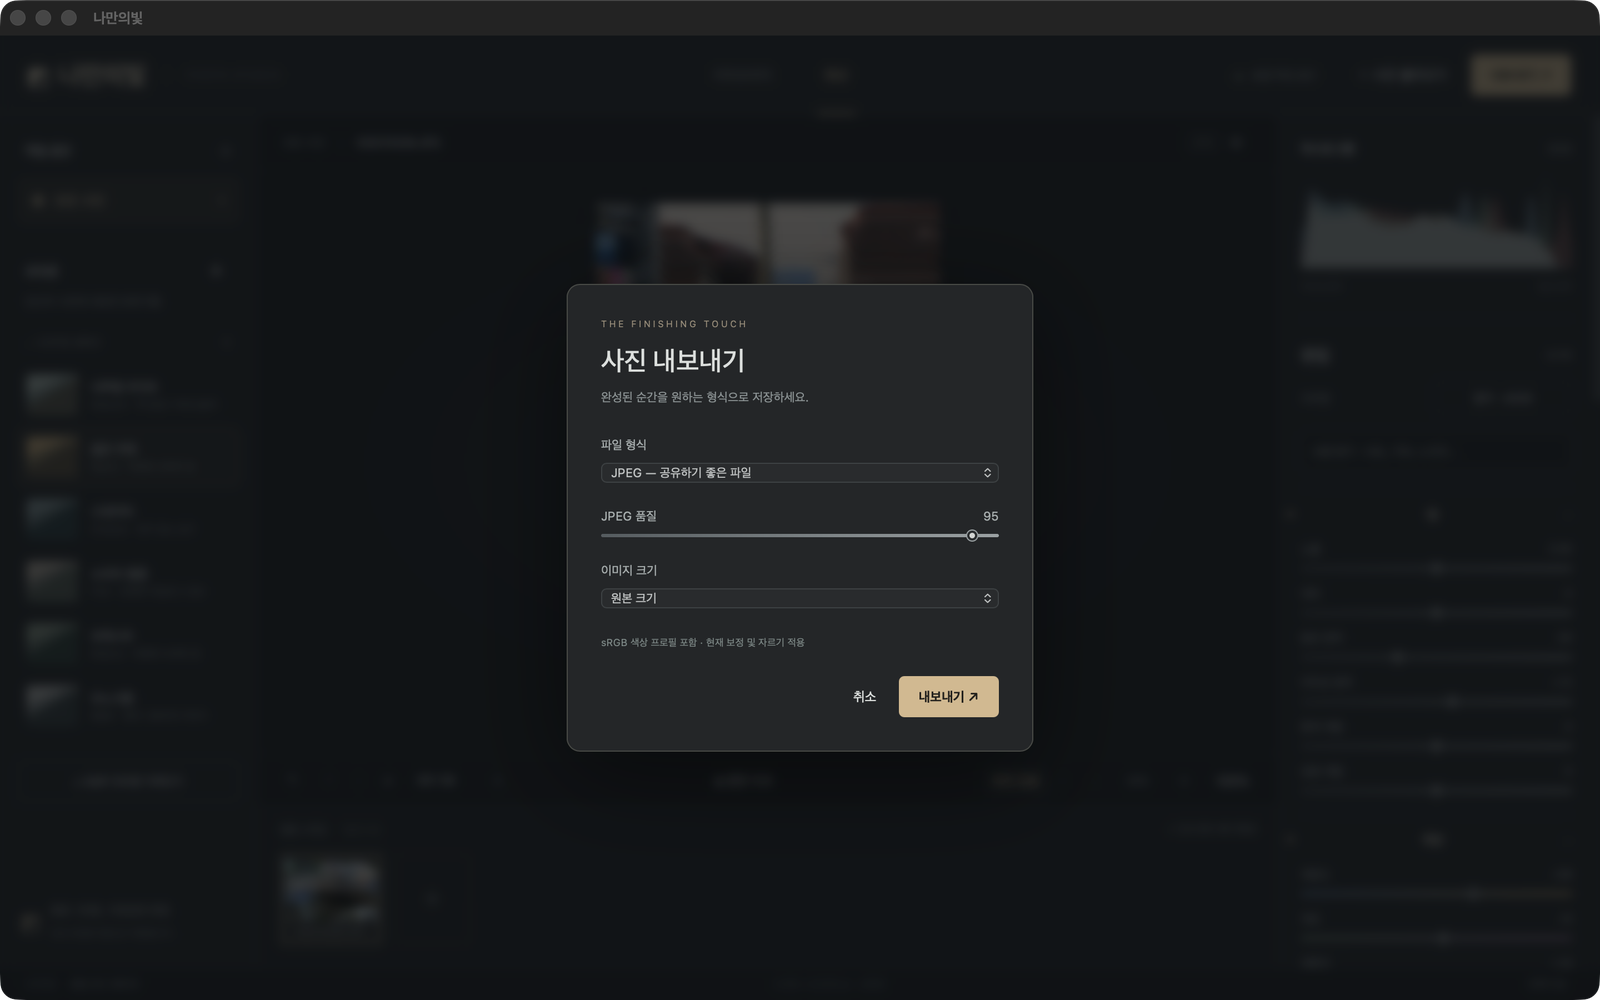
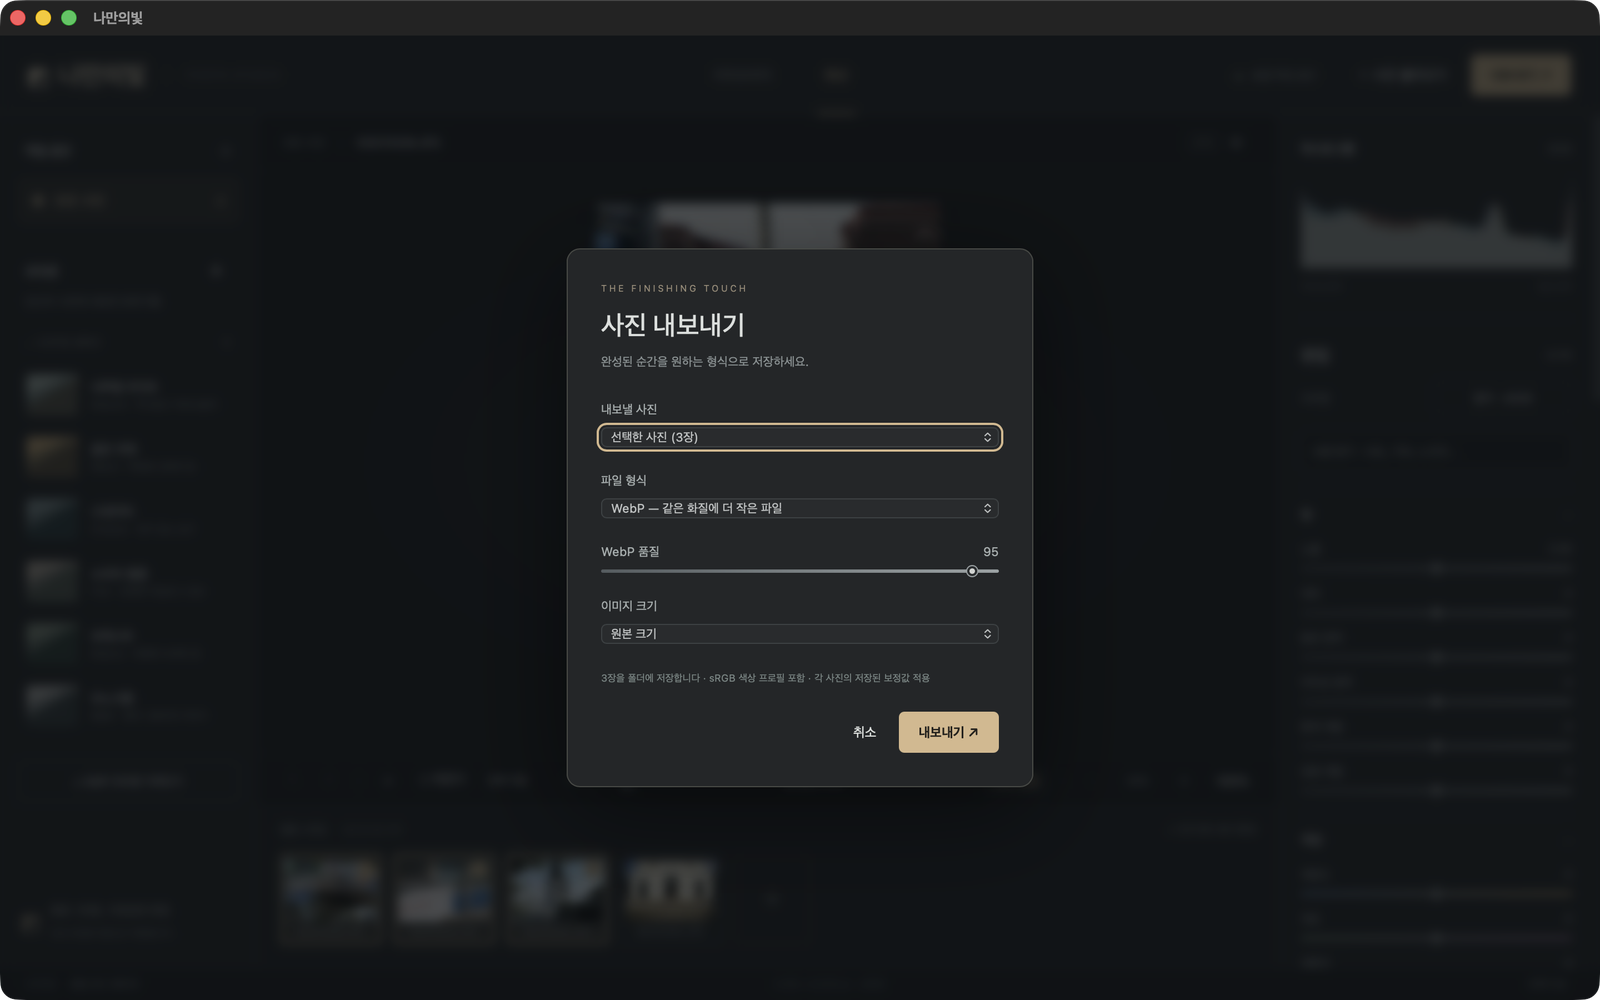
1.1.0 기능 캡처 추가, 캡처하다 찾은 버그 둘 수정
docs/screenshots에 자르기 도구, 라이브러리 선택, 내보내기, 삭제 확인
네 장을 넣었습니다. 내보내기 캡처는 범위 선택이 없던 기존 것을 대체합니다.

찍은 화면을 보다 두 가지를 발견해 함께 고쳤습니다.

- WebP를 고르면 품질 슬라이더가 숨겨져 조절할 수 없었습니다. WebP도
  손실 압축이므로 JPEG과 같이 슬라이더를 두고 라벨만 형식에 맞춥니다.
- 정적 파일에 Cache-Control이 없어 웹뷰가 디스크 캐시에 남은 이전
  버전의 app.js를 내주고 있었습니다. 앱을 업데이트해도 옛 화면이 뜰 수
  있어 no-store를 붙입니다. 전부 루프백에서 오므로 캐시 이득은 없습니다.

삭제 확인 문구의 "파일명을(를)"이 어색해 "파일명 파일을"로 바꾸고,
원본이 남는다는 점을 함께 알립니다.

diff --git a/static/app.js b/static/app.js
@@ -627,11 +627,14 @@ function clearCurrent() {
 }
 $("deletePhoto").onclick = () =>
   current &&
-  removePhotos([current.id], `${current.name}을(를) 라이브러리에서 지웁니다.`);
+  removePhotos(
+    [current.id],
+    `${current.name} 파일을 라이브러리에서 지웁니다. 원본은 그대로 남습니다.`,
+  );
 $("deleteSelected").onclick = () =>
   removePhotos(
     [...selected],
-    `선택한 ${selected.size}장을 라이브러리에서 지웁니다.`,
+    `선택한 ${selected.size}장을 라이브러리에서 지웁니다. 원본은 그대로 남습니다.`,
   );
 $("selectAll").onclick = () => {
   selected = new Set(photos.map((p) => p.id));
@@ -1174,12 +1177,19 @@ $("exportTop").onclick = () => {
   if (!photos.length) return toast("내보낼 사진이 없습니다.");
   $("exportScope").value = current ? "current" : "all";
   syncExportScope();
+  syncQualityLabel();
   $("exportDialog").showModal();
 };
 $("cancelExport").onclick = () => $("exportDialog").close();
 $("quality").oninput = (e) => ($("qualityValue").textContent = e.target.value);
-$("exportFormat").onchange = (e) =>
-  ($("qualityLabel").hidden = e.target.value !== "jpeg");
+// WebP is lossy too, so it gets the same quality slider — with its own name.
+function syncQualityLabel() {
+  const format = $("exportFormat").value;
+  $("qualityLabel").hidden = !["jpeg", "webp"].includes(format);
+  $("qualityLabel").firstChild.textContent =
+    (format === "webp" ? "WebP" : "JPEG") + " 품질 ";
+}
+$("exportFormat").onchange = syncQualityLabel;
 function exportSuffix(format) {
   return format === "jpeg" ? ".jpg" : format === "tiff" ? ".tif" : "." + format;
 }

diff --git a/app.py b/app.py
@@ -26,6 +26,21 @@ JOB_LOCK = threading.Lock()
 POOL = None
 POOL_LOCK = threading.Lock()
 app = FastAPI(title="나만의빛")
+
+
+@app.middleware("http")
+async def no_store(request, call_next):
+    """Never let the webview cache the app itself.
+
+    The window keeps its cache on disk between launches, so without this an
+    updated build can come up running the previous version's page. Everything
+    here is served from loopback, so caching buys nothing anyway.
+    """
+    response = await call_next(request)
+    response.headers["Cache-Control"] = "no-store"
+    return response
+
+
 app.mount("/static", StaticFiles(directory=ROOT / "static"), name="static")
 FORMAT_PATTERN = "^(" + "|".join(FORMATS) + ")$"
 

diff --git a/tests/test_app.py b/tests/test_app.py
@@ -275,3 +275,9 @@ def test_single_export_job_keeps_bytes_for_browser_download(client):
     got = client.get(f"/api/export/{jid}/file")
     assert got.status_code == 200
     assert Image.open(BytesIO(got.content)).format == "JPEG"
+
+
+def test_app_assets_are_never_cached(client):
+    # A stale page after an update is worse than re-reading a few local files.
+    for url in ["/", "/static/app.js", "/advanced-config.js", "/api/health"]:
+        assert client.get(url).headers["cache-control"] == "no-store", url
